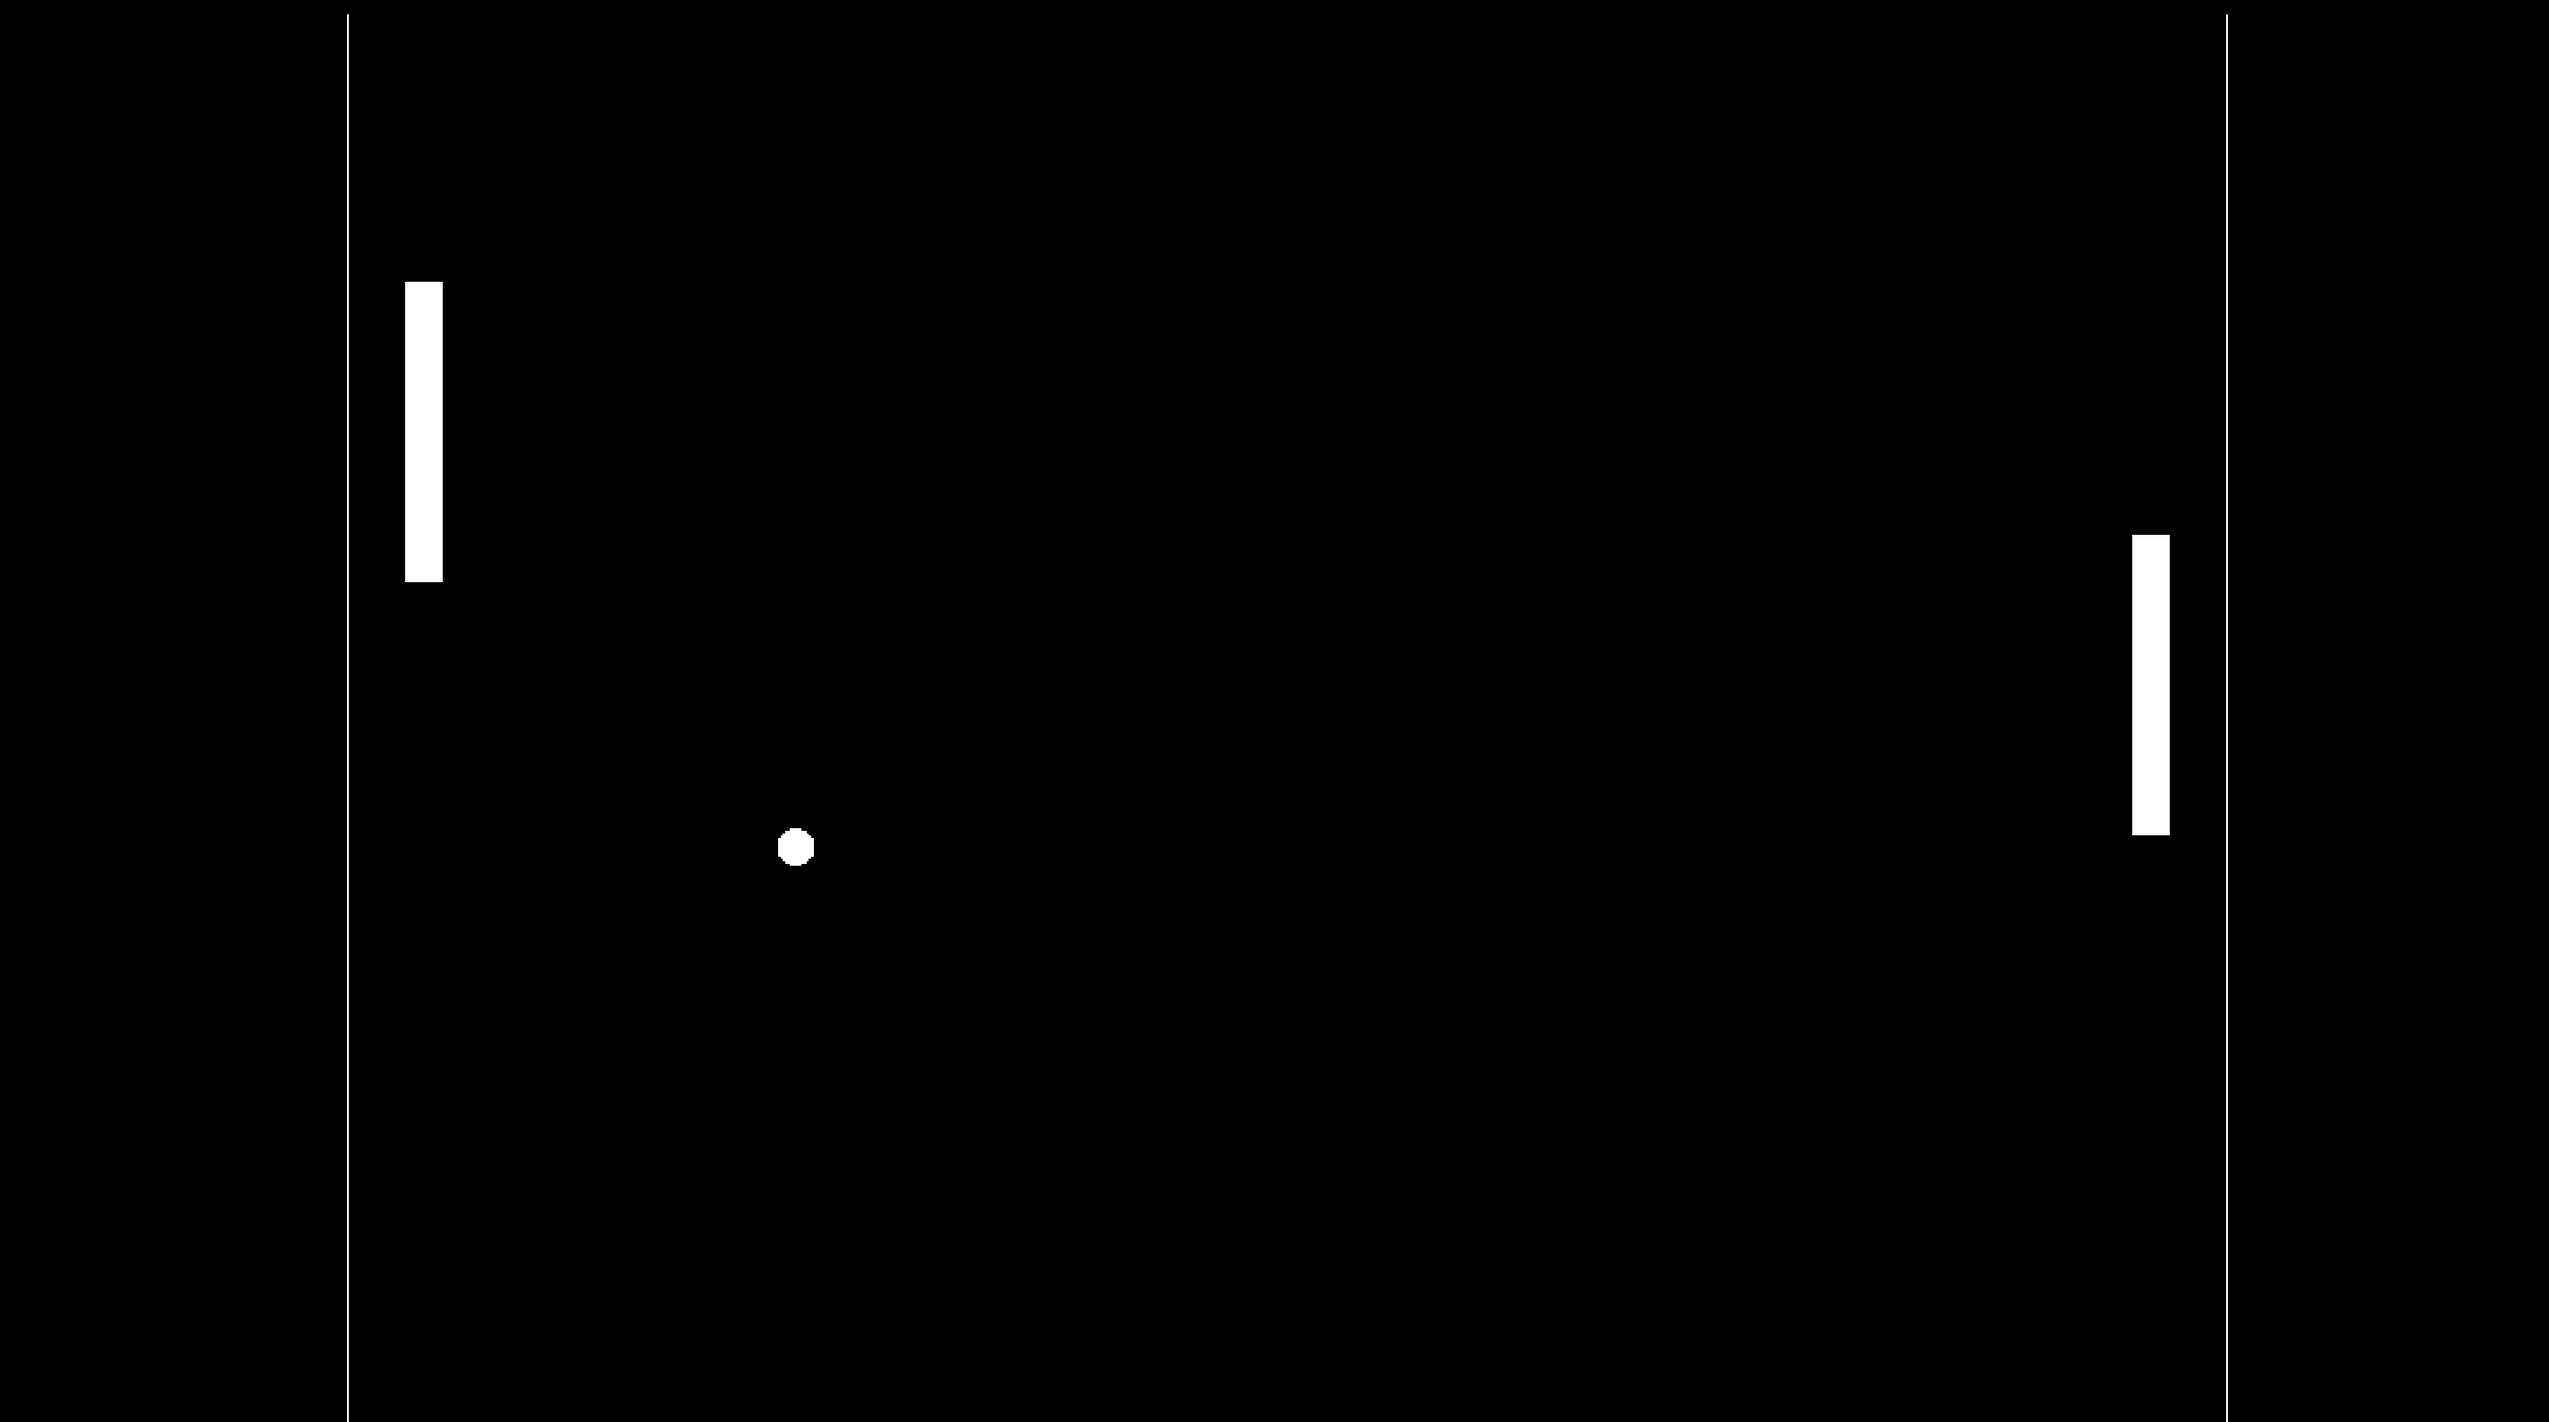
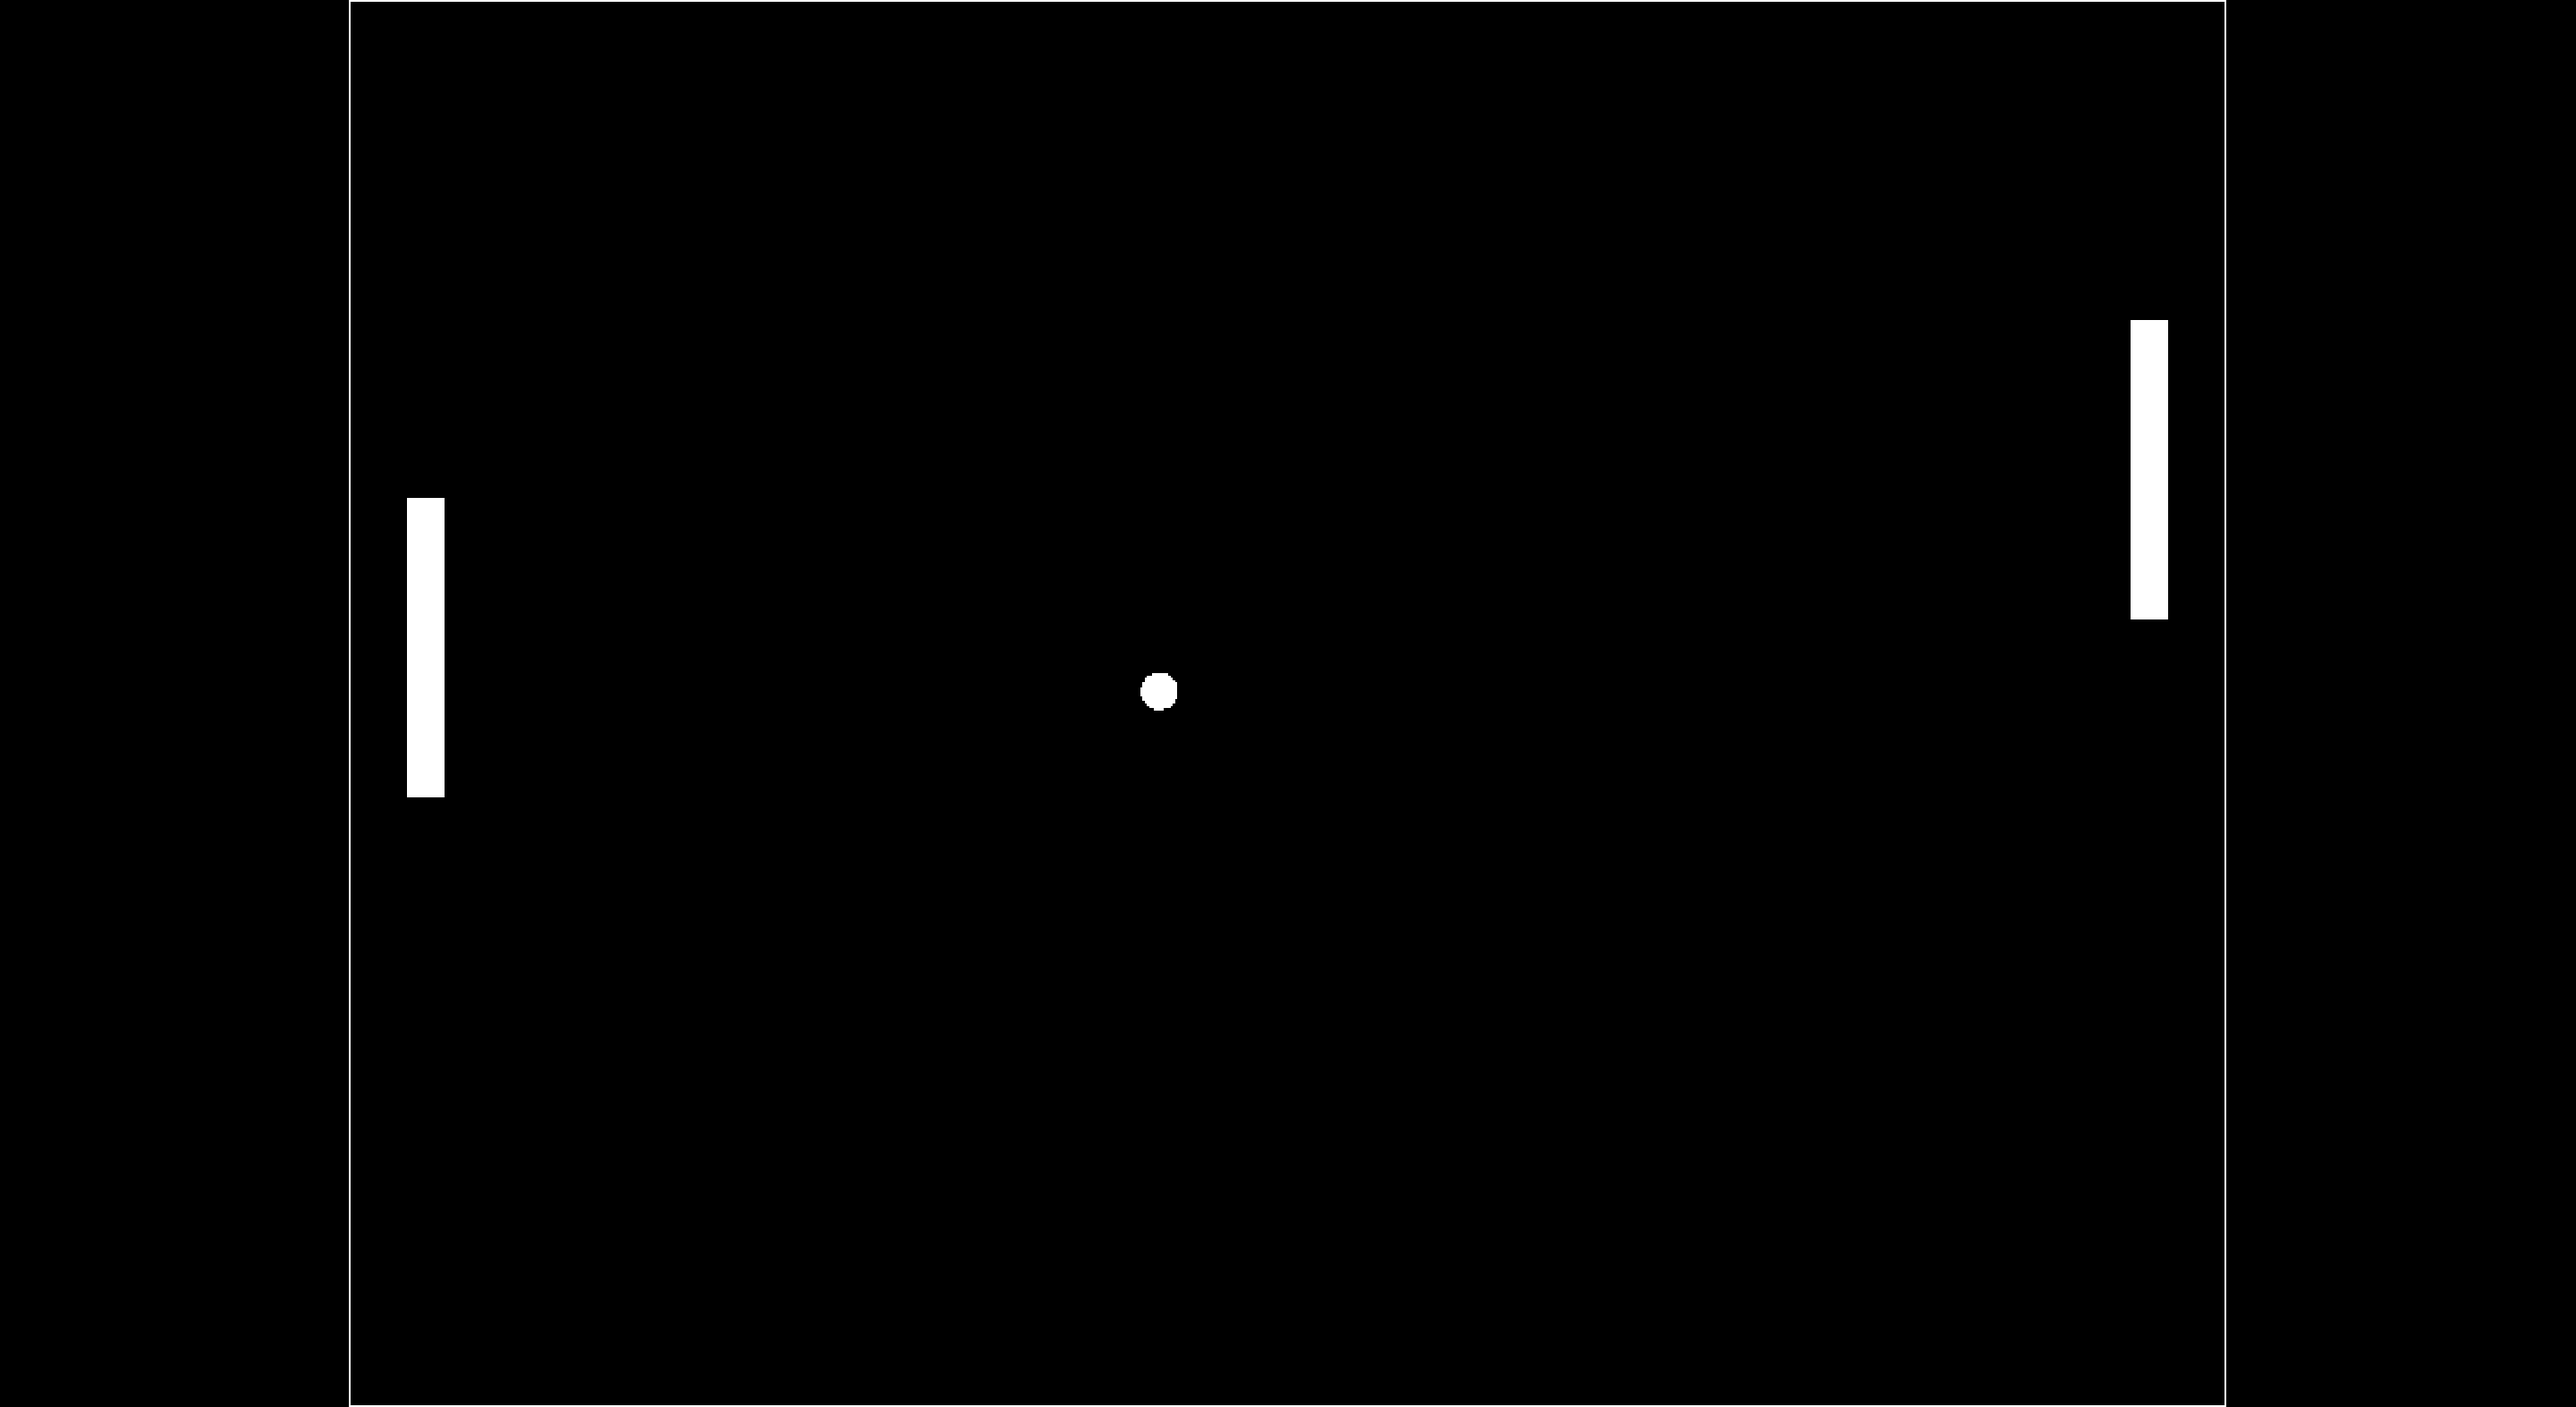
update css

diff --git a/index.html b/index.html
@@ -6,6 +6,12 @@
     <meta name="viewport" content="width=device-width, initial-scale=1.0">
     <title>pon</title>
     <style>
+        * {
+            margin: 0;
+            padding: 0;
+            box-sizing: border-box;
+        }
+
         body {
             background-color: black;
         }

diff --git a/README.md b/README.md
@@ -19,7 +19,3 @@ python -m http.server 8000 # or `npx http-server -c-1` or meh
 - Space: Start / Restart game
 - W S: Move left paddle
 - ↑ ↓: Move right paddle
-
-## Notes
-
-Game này dùng nhiều hàm của Phaser quá, nếu đổi logic thành code from scratch thì tách được nhiều đề bài hay hơn.
